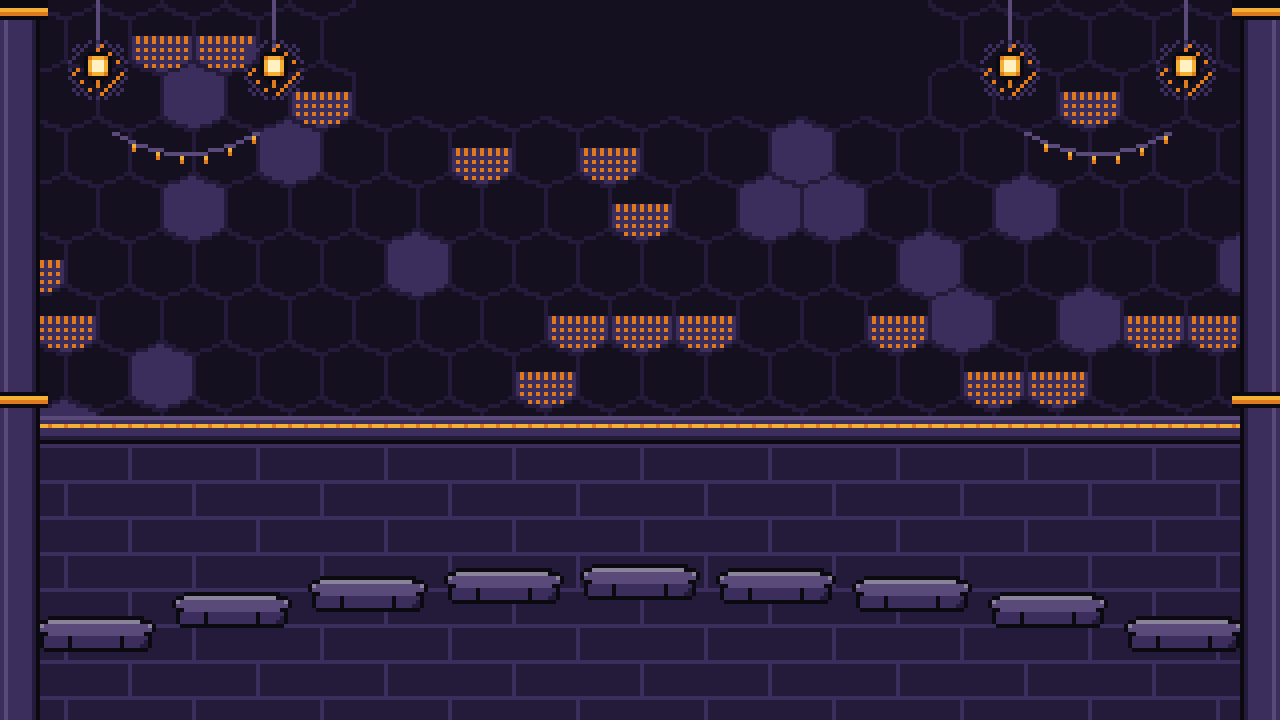
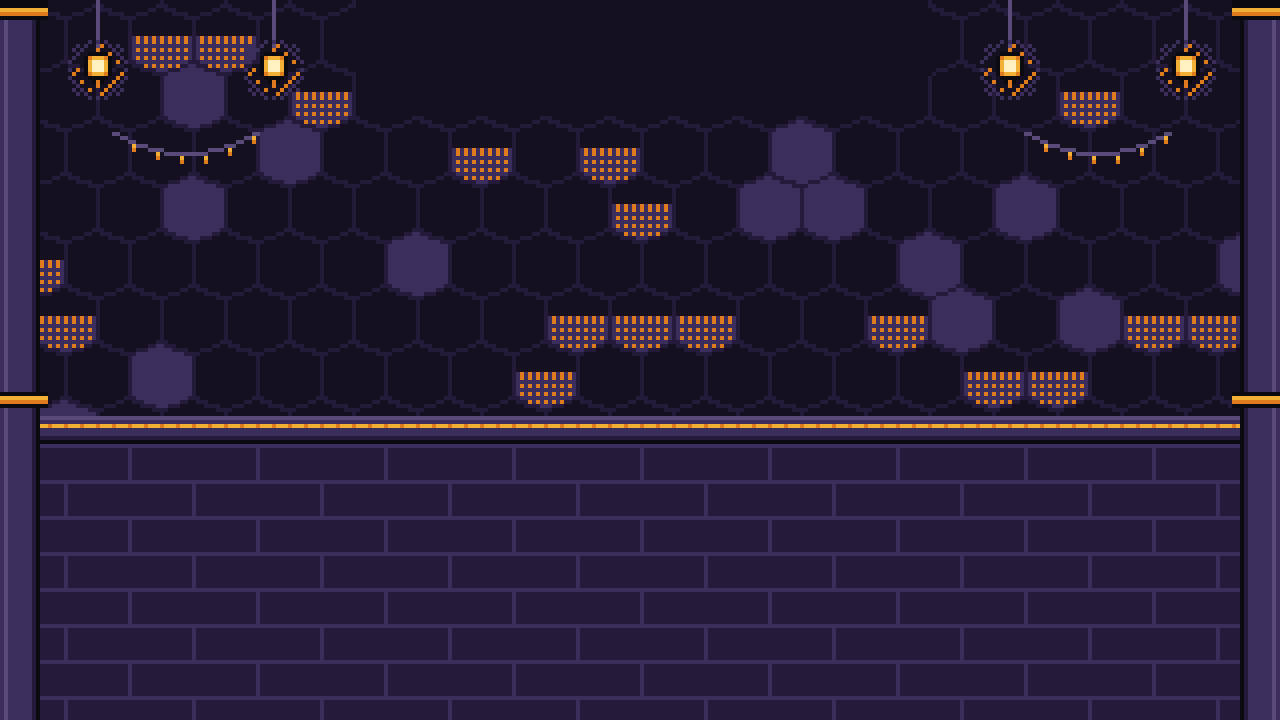
fix(dashboard): draw one pedestal per roster agent, no empty ninth
A deployment without the live-only LLM agent has eight agents, but the
Arena always showed nine pedestals, leaving an empty one on the right.
The nine pedestals were baked into the background image, so the renderer
could not leave one out.

- arena-bg no longer contains pedestals; the renderer already drew them
  from props on top of the baked ones.
- layoutScene places exactly the agents of the roster on the arc, in
  roster order and centred. A nine-agent roster looks as before.
- The no-data stage draws its nine dim pedestals itself.

README notes that the LLM agent runs only where a NEAR AI Cloud key is
configured. DEPLOY.md uses the current tab names, explains how to check
whether the LLM agent is configured, and adds the steps for updating a
running deployment.

Changed region(s): [[0.0312, 0.7639, 0.9688, 0.9167]]

diff --git a/packages/dashboard/src/arena/renderer.ts b/packages/dashboard/src/arena/renderer.ts
@@ -62,17 +62,19 @@ export interface SceneLayout {
   actors: { x: number; y: number }[];
   /** Feet anchor per benched agent (same order as scene.bench). */
   bench: { x: number; y: number }[];
-  /** Slot index per participant (label stagger); -1 in the packed fallback. */
+  /** Position on the arc per participant, left to right (label stagger); -1 in the packed fallback. */
   actorSlots: number[];
-  /** Pedestals to draw: one per slot in the fixed layout (lit = participant). */
+  /** Pedestals to draw: one per roster agent in the fixed layout (lit = participant). */
   pedestals: { x: number; y: number; lit: boolean }[];
   fixed: boolean;
 }
 
 /**
- * Where everyone stands. Normally every roster agent owns one of the nine
- * pedestals of the background's arc (slot = roster order): participants on
- * a lit pedestal, agents sitting this Round out dimmed on their own dim one.
+ * Where everyone stands. Normally every roster agent owns one pedestal on the
+ * arc, in roster order: participants on a lit pedestal, agents sitting this
+ * Round out dimmed on their own dim one. The arc holds exactly the agents of
+ * this roster, so a roster without the live-only LLM agent has eight centred
+ * pedestals and no empty ninth. An empty stage keeps all nine, dim.
  * If an agent is unknown (no slot) the packed centre arc + side bench is used.
  */
 export function layoutScene(scene: Pick<Scene, 'actors' | 'bench'>): SceneLayout {
@@ -80,14 +82,17 @@ export function layoutScene(scene: Pick<Scene, 'actors' | 'bench'>): SceneLayout
   const all = [...scene.actors.map((a) => slotOf(a.agentId)), ...scene.bench.map((b) => slotOf(b.agentId))];
   const fixed = all.every((s) => s >= 0 && s < SLOTS) && new Set(all).size === all.length;
   if (fixed) {
-    const actorSlots = scene.actors.map((a) => slotOf(a.agentId));
+    const present = [...all].sort((a, b) => a - b);
+    const count = present.length === 0 ? SLOTS : present.length;
+    const placeOf = (id: string) => present.indexOf(slotOf(id));
+    const actorSlots = scene.actors.map((a) => placeOf(a.agentId));
     const lit = new Set(actorSlots);
     return {
       fixed,
       actorSlots,
-      actors: actorSlots.map((s) => actorAnchor(s, SLOTS)),
-      bench: scene.bench.map((b) => actorAnchor(slotOf(b.agentId), SLOTS)),
-      pedestals: Array.from({ length: SLOTS }, (_, s) => ({ ...actorAnchor(s, SLOTS), lit: lit.has(s) })),
+      actors: actorSlots.map((p) => actorAnchor(p, count)),
+      bench: scene.bench.map((b) => actorAnchor(placeOf(b.agentId), count)),
+      pedestals: Array.from({ length: count }, (_, p) => ({ ...actorAnchor(p, count), lit: lit.has(p) })),
     };
   }
   const n = scene.actors.length;
@@ -446,6 +451,8 @@ export function drawScene(g: CanvasRenderingContext2D, bank: SpriteBank, scene: 
   drawBanner(g, bank, scene);
 
   if (scene.kind === 'no-data') {
+    // An empty stage still shows its (dim) pedestals.
+    layoutScene({ actors: [], bench: [] }).pedestals.forEach((p) => drawPedestal(g, bank, p.x, p.y, false));
     text(g, bank, 'NO DATA YET', 160, 96, HIVE.ash);
     return;
   }

diff --git a/packages/dashboard/test/scene.test.ts b/packages/dashboard/test/scene.test.ts
@@ -320,6 +320,30 @@ test('layout: every roster agent owns its pedestal slot; sitting-out agents stan
   assert.equal(new Set(xs).size, xs.length);
 });
 
+test('layout: a roster without the LLM agent draws eight centred pedestals, no empty ninth', async () => {
+  const { layoutScene, actorAnchor } = await import('../src/arena/renderer');
+  const eight = roster.filter((r) => r.agentId !== 'llm-news');
+  const s = deriveScene({ question: q(4), comparison: cmp(4), roster: eight, nowMs: T0 });
+  const l = layoutScene(s);
+  assert.equal(l.fixed, true);
+  assert.equal(l.pedestals.length, 8);
+  // Every pedestal has an agent standing on it.
+  const feet = [...l.actors, ...l.bench].map((a) => `${a.x},${a.y}`).sort();
+  assert.deepEqual(l.pedestals.map((p) => `${p.x},${p.y}`).sort(), feet);
+  // Roster order is kept, and the arc is centred on the stage (x = 160).
+  const yolo = s.actors.findIndex((a) => a.agentId === 'yolo');
+  assert.deepEqual(l.actors[yolo], actorAnchor(6, 8));
+  assert.equal(l.pedestals[0]!.x + l.pedestals[7]!.x, 320);
+  assert.deepEqual(l.pedestals.map((p) => p.lit), [false, false, true, true, true, true, true, true]);
+});
+
+test('layout: an empty stage keeps all nine pedestals, dim', async () => {
+  const { layoutScene, SLOTS } = await import('../src/arena/renderer');
+  const l = layoutScene({ actors: [], bench: [] });
+  assert.equal(l.pedestals.length, SLOTS);
+  assert.ok(l.pedestals.every((p) => !p.lit));
+});
+
 test('layout: an unknown agent falls back to the packed arc + side bench', async () => {
   const { layoutScene } = await import('../src/arena/renderer');
   const s = deriveScene({ question: q(4), comparison: cmp(4), roster, nowMs: T0 });

diff --git a/art/src/bg.py b/art/src/bg.py
@@ -1,7 +1,7 @@
 """Gate 6: arena-bg.aseprite -- 320x180, static, three layers:
   wall     far honeycomb wall (centre-top 160x40 kept clear for the banner)
-  hall     ledge, floor, side pillars and nine dim hex pedestals on the arc the
-           renderer uses (pedestal art identical to props 'pedestal-dim')
+  hall     ledge, floor and side pillars. Pedestals are not part of the
+           background: the renderer draws one per roster agent from props
   lanterns hanging lanterns with dithered glow and bulb garlands
 
 Usage: python bg.py <out.lua> <aseprite_path> <png_path>
@@ -11,7 +11,6 @@ import os, sys
 HERE = os.path.dirname(os.path.abspath(__file__))
 sys.path.insert(0, HERE)
 from flats import PAL  # noqa: E402
-from props import pedestal  # noqa: E402
 
 W, H = 320, 180
 COL = dict(PAL, B='#14101f')  # B = night
@@ -73,11 +72,6 @@ def wall():
     return g
 
 
-def actor_anchor(s, n=9):
-    d = s - (n - 1) / 2
-    return round(160 + d * 34), round(142 + 0.8 * d * d)
-
-
 def hall():
     g = layer()
     # Ledge where the wall meets the floor.
@@ -105,16 +99,6 @@ def hall():
         if y < 5 or 98 <= y <= 101:
             for x in list(range(0, 12)) + list(range(308, 320)):
                 g[y][x] = 'H' if y in (2, 99) else 'A' if y in (3, 100) else 'O'
-    # Nine dim pedestals at the renderer's slot anchors (prop drawn at x-16, y-2).
-    ped = pedestal(False)
-    for s in range(9):
-        ax, ay = actor_anchor(s)
-        for dy, r in enumerate(ped):
-            for dx, c in enumerate(r):
-                if c != '.':
-                    xx, yy = ax - 16 + dx, ay - 2 + dy
-                    if 0 <= xx < W and 0 <= yy < H:
-                        g[yy][xx] = c
     return g
 
 

diff --git a/deploy/DEPLOY.md b/deploy/DEPLOY.md
@@ -54,13 +54,29 @@ sudo systemctl enable --now hivecast-service hivecast-runner
 sudo cp deploy/Caddyfile /etc/caddy/Caddyfile && sudo systemctl reload caddy
 ```
 
+## Updating a running deployment
+
+```bash
+cd /opt/hivecast && sudo -u hivecast git pull origin main
+sudo -u hivecast npm ci                                         # only when package-lock.json changed
+sudo -u hivecast npm run build --workspace @hivecast/dashboard  # dashboard changes
+sudo systemctl restart hivecast-service hivecast-runner         # runner or config changes
+```
+
+Caddy serves the new `dist` at once; no reload is needed.
+
 ## Check it
 
 - `https://<your-domain>/api/health` returns JSON.
-- `https://<your-domain>/` shows Rounds; the **Simulation** tab draws the
+- `https://<your-domain>/` shows Rounds; the **REPLAY** tab draws the
   bankroll race.
-- Connect a Meteor testnet wallet, buy access to a Round marked
-  **snapshot ready**, sign the login message, and read the forecast.
+- `https://<your-domain>/api/agents` lists nine agents, the last one
+  `llm-news`. Eight means the LLM agent is not configured: the config needs
+  both `agentAccounts["llm-news"]` and the `llm` block, plus `NEARAI_API_KEY`
+  in `/etc/hivecast/hivecast.env`.
+- Connect a Meteor testnet wallet, buy access to a Round marked **on sale**
+  (the last 5 minutes before its event starts), sign the login message, and
+  read the forecast.
 - `journalctl -u hivecast-runner -f` shows the scheduler committing,
   resolving, and settling.
 
@@ -75,4 +91,4 @@ sudo cp deploy/Caddyfile /etc/caddy/Caddyfile && sudo systemctl reload caddy
 - **The dashboard alone is not enough.** Without the runner, the page shows
   honest "unavailable" states instead of Rounds.
 - **Trust boundary.** The operator knows private forecasts, records the Outcome,
-  and holds the deploy key. The **Trust** tab says so to every visitor.
+  and holds the deploy key. The **GUIDE** tab says so to every visitor.

diff --git a/packages/dashboard/DESIGN.md b/packages/dashboard/DESIGN.md
@@ -56,9 +56,12 @@ the Round's on-chain schedule and phase (`guide.ts`).
   Under 1100px everything stacks and the question moves above the stage; at
   390px there is no page-level horizontal scroll (tables scroll in their own
   frame).
-- **Cast:** nine characters, one fixed pedestal each on the background's arc
-  (roster order). Participants stand on a lit pedestal; agents sitting a Round
-  out stand dimmed on their own dim pedestal, with the reason in the DOM.
+- **Cast:** nine characters. Every agent of the runner's roster owns one
+  pedestal on the arc, in roster order; the renderer draws the pedestals (they
+  are not part of the background), so a roster without the live-only LLM agent
+  shows eight centred pedestals and no empty one. Participants stand on a lit
+  pedestal; agents sitting a Round out stand dimmed on their own dim pedestal,
+  with the reason in the DOM.
 - **Scene state machine** (`scene.ts`, pure, unit-tested): OPEN (agents seal
   envelopes into the Lockbox, SEALED n/m), CLOSED (freezing → the Oracle Stone
   pulses while the forecast is on sale → observing: an empty candle frame for

diff --git a/README.md b/README.md
@@ -115,7 +115,9 @@ agent table. It is always labelled *offline replay*, never chain activity.
   even the model host cannot read the prompt or reply. The headlines and
   reasoning are published on the Round page at the agent's Reveal, and it is
   scored by the same Brier rule as everyone else. It is live only: the
-  replay stays offline and deterministic.
+  replay stays offline and deterministic. It runs only where the Operator has
+  configured a NEAR AI Cloud key; a deployment without one lists eight agents
+  and the Arena shows eight pedestals.
 
 - **One sub-account per agent** (`meteo.hivecast-1105-0548.testnet`, …): every
   commit, reveal, and payout traces to one agent on chain.
